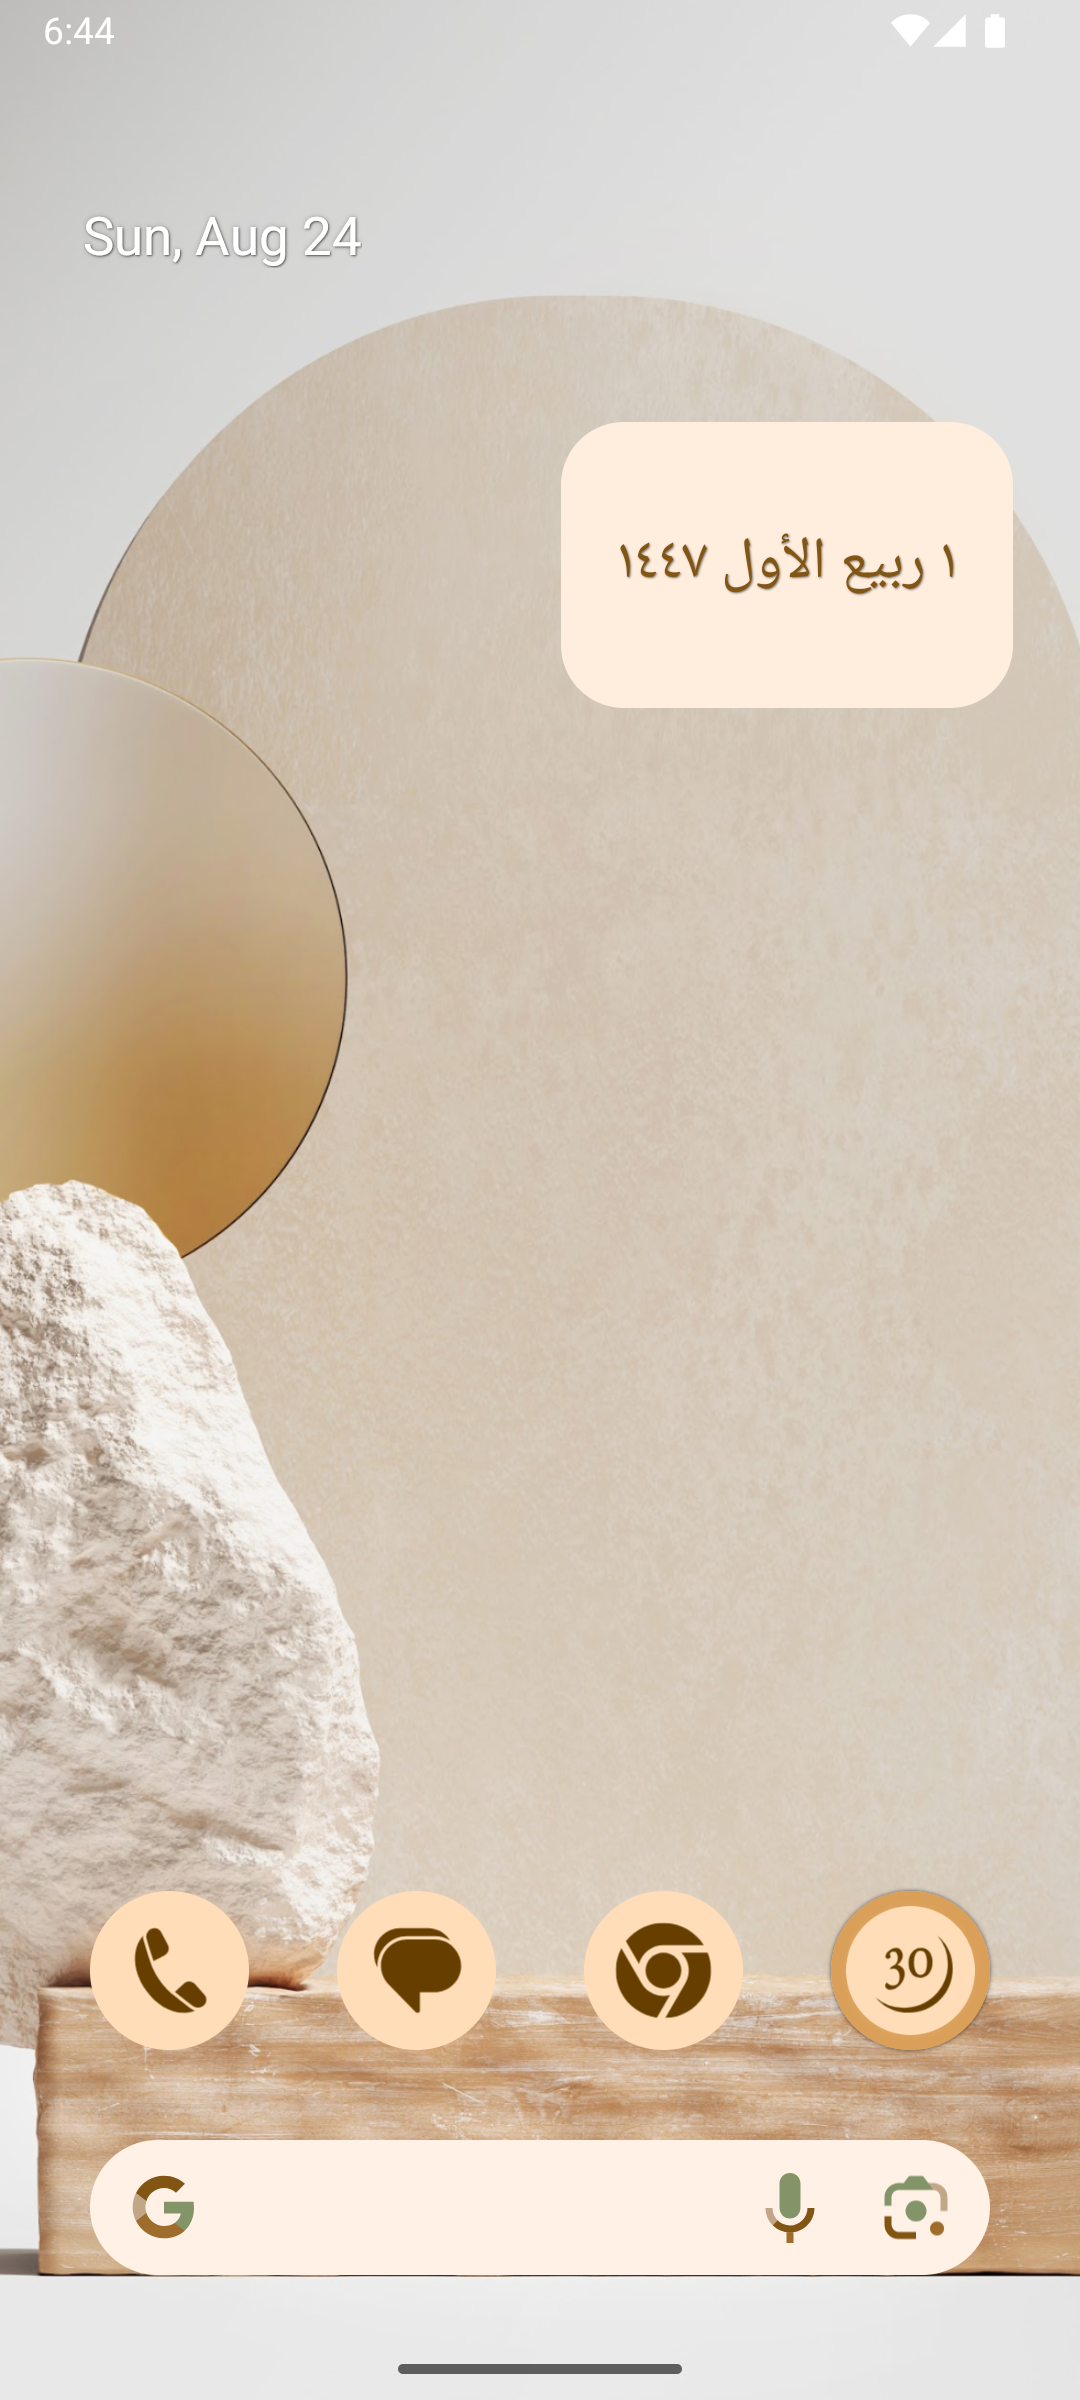
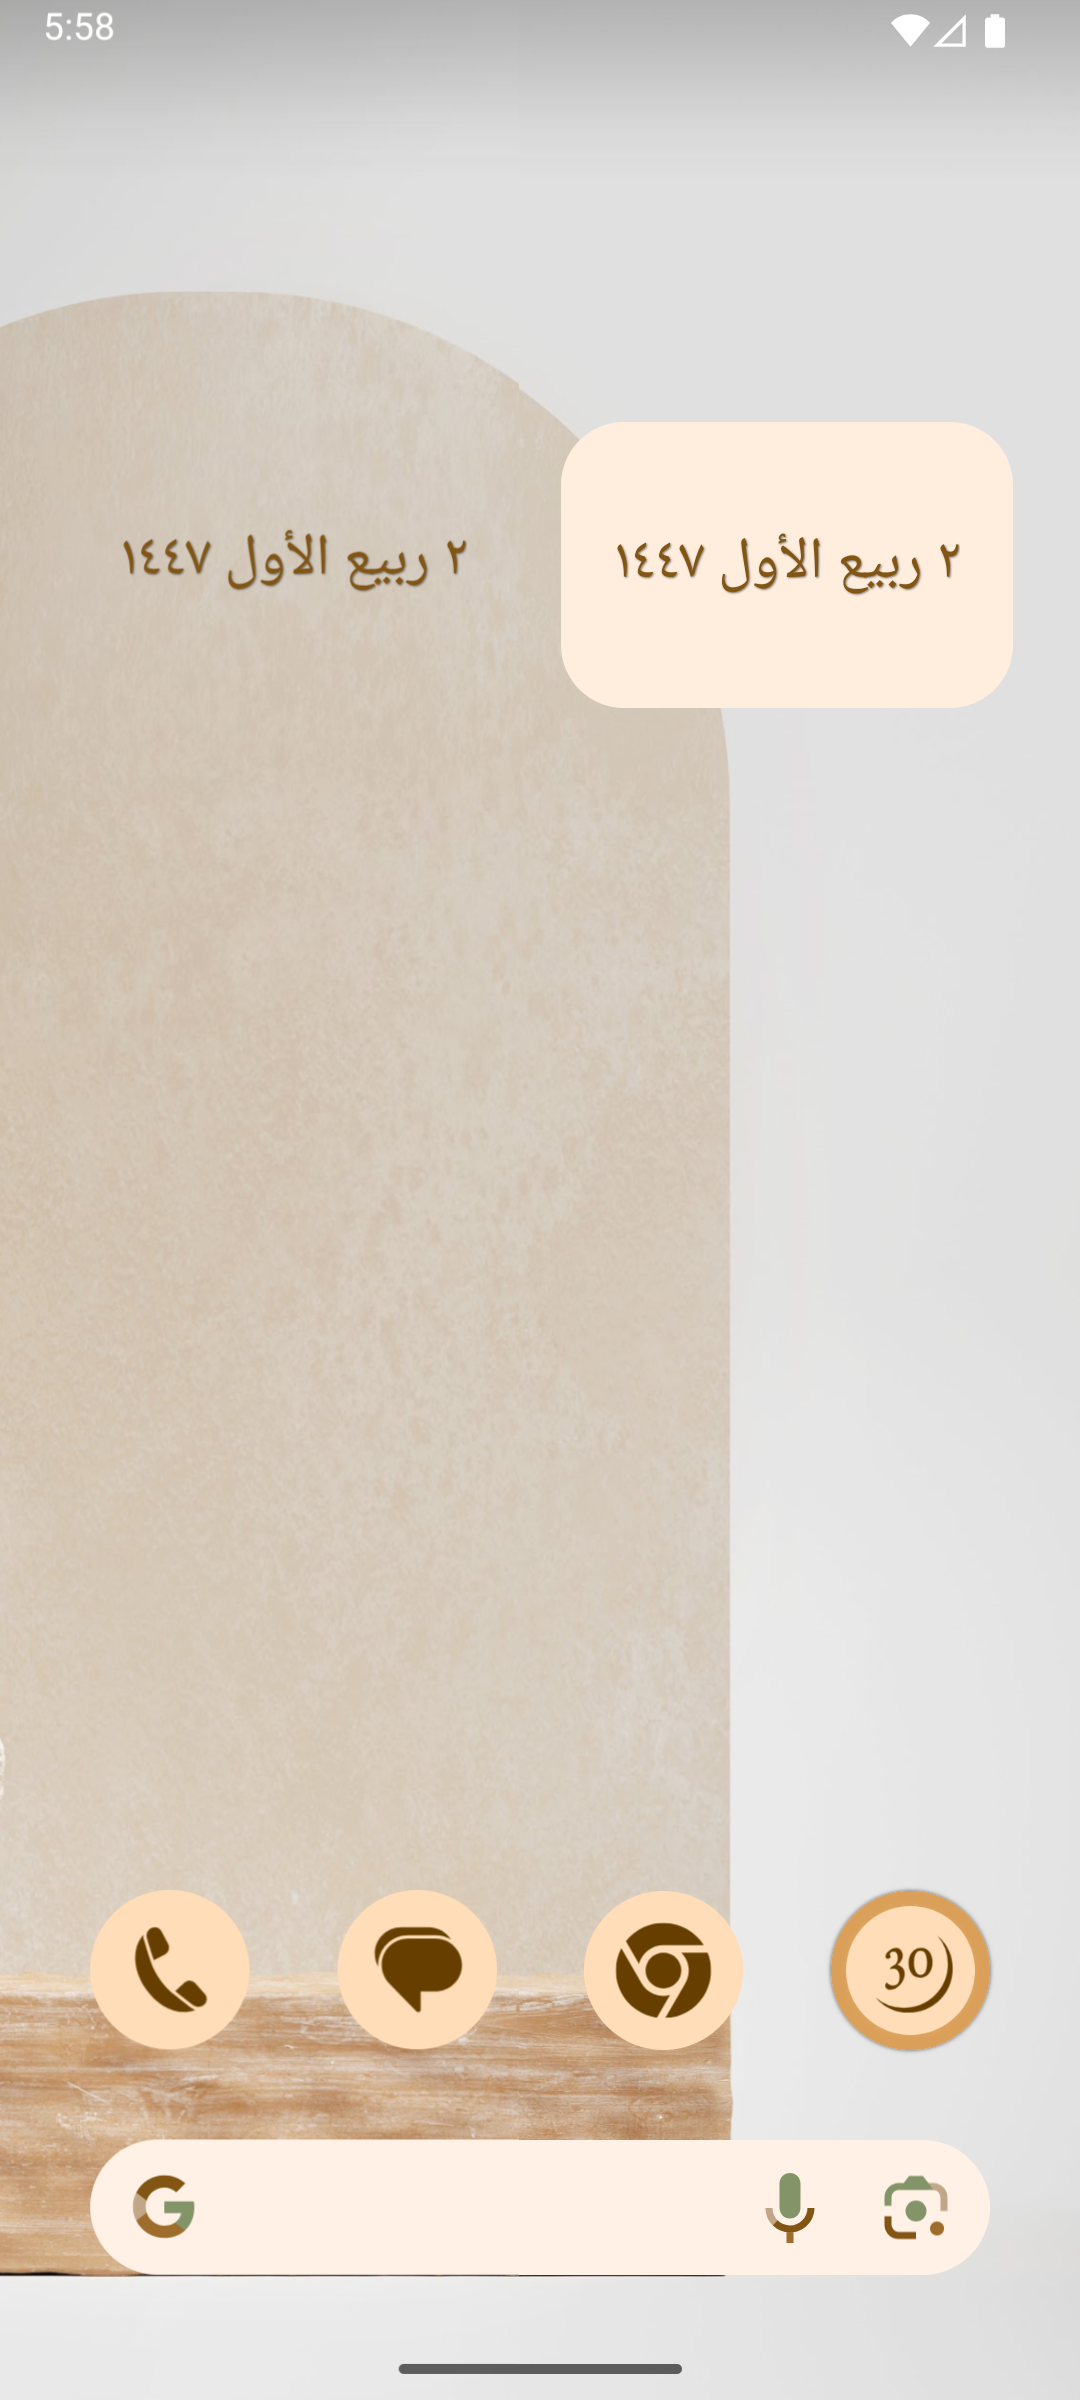
feat: default bgColorMode to Transparent

diff --git a/app/src/main/kotlin/me/amrbashir/hijriwidget/preferences/routes/Home.kt b/app/src/main/kotlin/me/amrbashir/hijriwidget/preferences/routes/Home.kt
@@ -31,6 +31,7 @@ import me.amrbashir.hijriwidget.preferences.composables.ui.TimePickerDialog
 @Composable
 fun Home() {
     val navController = LocalNavController.current
+    var showDayStartPicker by remember { mutableStateOf(false) }
 
     Column(
         modifier = Modifier
@@ -40,7 +41,15 @@ fun Home() {
             .verticalScroll(rememberScrollState()),
     ) {
         PreferencesGroup(label = "Functionality") {
-            var showDayStartPicker by remember { mutableStateOf(false) }
+
+            PreferenceButton(
+                label = "Date Format",
+                description = "Customize how the Hijri date appears by choosing a format pattern",
+                iconResId = R.drawable.baseline_translate_24,
+                onClick = {
+                    navController.navigate(Route.DATE_FORMAT)
+                }
+            )
 
             PreferenceButton(
                 label = "Day Start (${Preferences.dayStart.value})",
@@ -87,16 +96,7 @@ fun Home() {
                 description = "Choose the widget text and background color",
                 iconResId = R.drawable.baseline_color_lens_24,
                 onClick = {
-                    navController.navigate(Route.COLOR)
-                }
-            )
-
-            PreferenceButton(
-                label = "Text Format",
-                description = "Customize how the Hijri date appears by choosing a format pattern",
-                iconResId = R.drawable.baseline_translate_24,
-                onClick = {
-                    navController.navigate(Route.FORMAT)
+                    navController.navigate(Route.COLOR_MODE)
                 }
             )
 

diff --git a/app/src/main/kotlin/me/amrbashir/hijriwidget/Preferences.kt b/app/src/main/kotlin/me/amrbashir/hijriwidget/Preferences.kt
@@ -51,9 +51,8 @@ object Preferences {
     @Suppress("ConstPropertyName")
     object Defaults {
         val bgColorMode =
-            if (Build.VERSION.SDK_INT >= Build.VERSION_CODES.S) ColorMode.Dynamic else ColorMode.System
-        val textColorMode =
-            if (Build.VERSION.SDK_INT >= Build.VERSION_CODES.S) ColorMode.Dynamic else ColorMode.System
+            ColorMode.Transparent
+        val textColorMode = if (Build.VERSION.SDK_INT >= Build.VERSION_CODES.S) ColorMode.Dynamic else ColorMode.System
         const val textSize = 22F
         const val textShadow = true
         val textFormat = FORMAT_PRESETES[0]
@@ -203,15 +202,6 @@ object Preferences {
 
     fun migratePreferences(context: Context) {
         val sharedPreferences = context.getSharedPreferences(PREF, 0)
-
-        if (
-            !sharedPreferences.contains(BG_COLOR_MODE_KEY) &&
-            sharedPreferences.contains("LANG")
-        ) {
-            sharedPreferences.edit(commit = true) {
-                putString(BG_COLOR_MODE_KEY, ColorMode.Transparent.toString())
-            }
-        }
 
         if (!sharedPreferences.contains(TEXT_FORMAT_KEY)) {
             sharedPreferences.getString("LANG", null)?.let {

diff --git a/app/src/main/kotlin/me/amrbashir/hijriwidget/preferences/MainActivity.kt b/app/src/main/kotlin/me/amrbashir/hijriwidget/preferences/MainActivity.kt
@@ -54,8 +54,8 @@ import me.amrbashir.hijriwidget.widget.HijriWidget
 object Route {
     const val HOME = "/"
     const val CALENDAR_CALCULATION_METHOD = "CalendarCalculationMethod"
-    const val FORMAT = "Format"
-    const val COLOR = "Color"
+    const val DATE_FORMAT = "DateFormat"
+    const val COLOR_MODE = "ColorMode"
 }
 
 val LocalNavController = staticCompositionLocalOf<NavController> {
@@ -188,8 +188,8 @@ open class WidgetConfiguration(private val autoClose: Boolean = true) : Componen
                         ) {
                             composable(Route.HOME) { Home() }
                             composable(Route.CALENDAR_CALCULATION_METHOD) { CalendarCalculation() }
-                            composable(Route.FORMAT) { Format() }
-                            composable(Route.COLOR) { Color() }
+                            composable(Route.DATE_FORMAT) { Format() }
+                            composable(Route.COLOR_MODE) { Color() }
                         }
                     }
                 }

diff --git a/app/src/main/kotlin/me/amrbashir/hijriwidget/ColorMode.kt b/app/src/main/kotlin/me/amrbashir/hijriwidget/ColorMode.kt
@@ -22,7 +22,7 @@ enum class ColorMode(val prettyName: String, val description: String) {
 
         fun allForBg(): ArrayList<ColorMode> {
             val modes = this.all()
-            modes.add(modes.count() - 1, Transparent)
+            modes.add(0, Transparent)
             return modes
         }
     }

diff --git a/README.md b/README.md
@@ -27,8 +27,7 @@ Android widget for displaying Hijri date
 
 ## Screenshots
 
-|                                                  |                                                       |                                                              |
-|--------------------------------------------------|-------------------------------------------------------|--------------------------------------------------------------|
-| ![Screenshot 1](screenshots/1.png)          | ![Screenshot 2](screenshots/2.png)              | ![Screenshot 3](screenshots/3.png) |
-| ![Screenshot 4](screenshots/4.png)          | ![Screenshot 5](screenshots/5.png)              | ![Screenshot 6](screenshots/6.png) |
-| ![Screenshot 7](screenshots/7.png)          | ![Screenshot 8](screenshots/8.png)              | |
+|                                                  |                                                       |
+|--------------------------------------------------|-------------------------------------------------------|
+| ![Screenshot 1](screenshots/1.png)          | ![Screenshot 2](screenshots/2.png)              |
+| ![Screenshot 3](screenshots/3.png)          | ![Screenshot 4](screenshots/4.png)              |

diff --git a/CHANGELOG.md b/CHANGELOG.md
@@ -7,7 +7,7 @@
 - Added "Calendar Calculation Method" to choose between "Islamic", "Islamic Umm al-Qura" or "Islamic Civil" methods
 - Added "Day Offset" option to adjust Hijri date by ±1 day to match local moon sightings or personal observance
 - Added "Background Color" option to adjust the widget background color
-- Added "Format" option to choose between pre-defined presets or fine-tune using manual format pattern.
+- Added "Date Format" option to choose between pre-defined presets or fine-tune using manual format pattern.
 - New Look and Feel for the settings app.
 
 ## Changed
